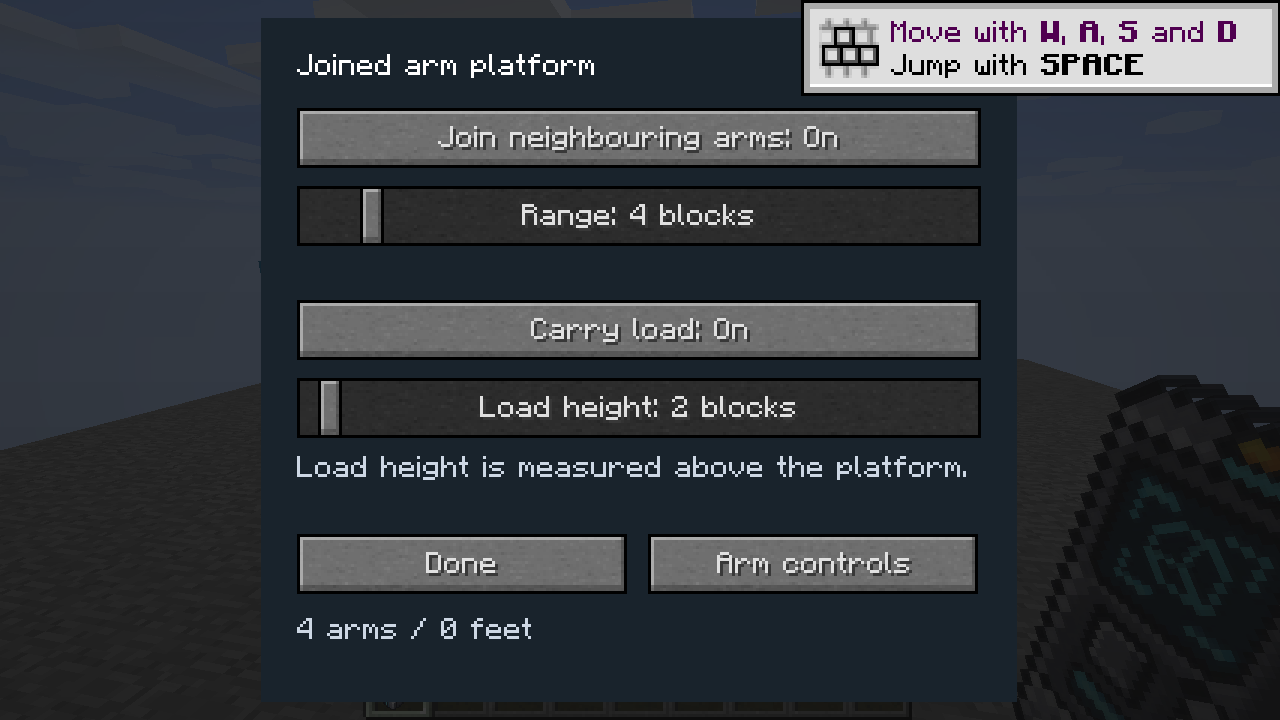
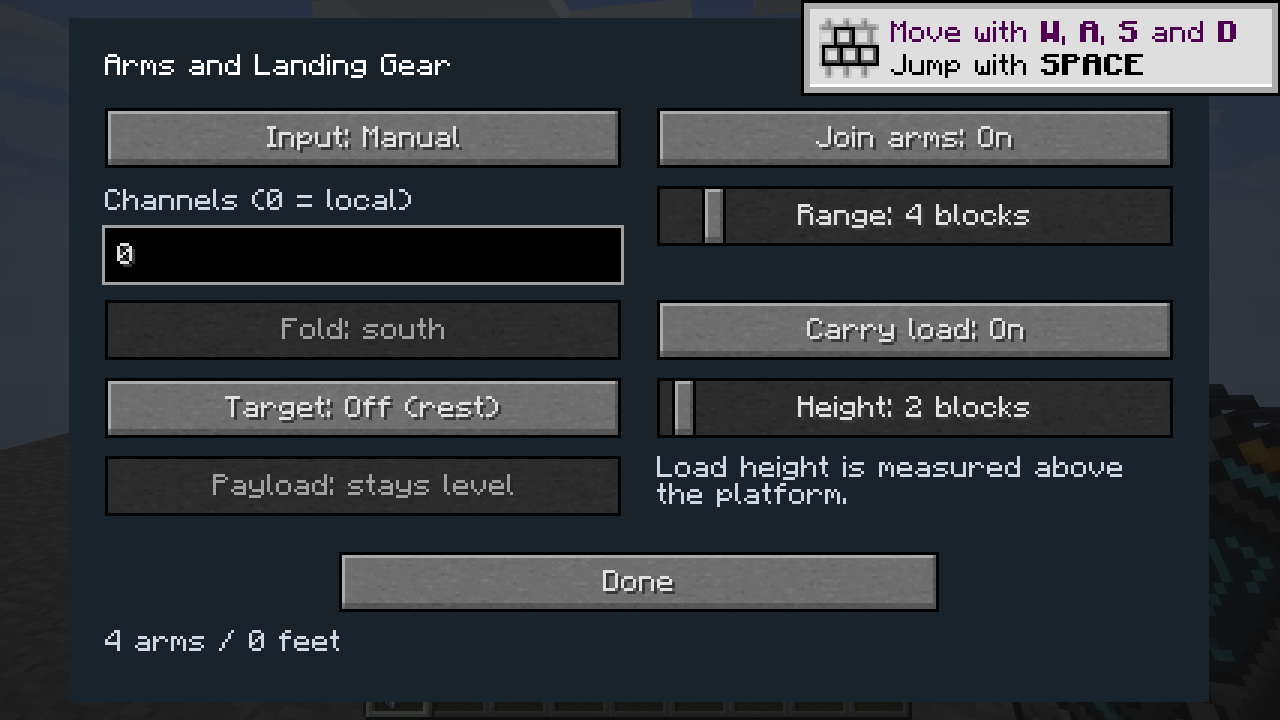
Limit unjoined Extenders to their tip block and show arm settings on one page

diff --git a/src/main/java/com/vandorlabs/gear/ArmLiveRuntimeChecks.java b/src/main/java/com/vandorlabs/gear/ArmLiveRuntimeChecks.java
@@ -14,20 +14,28 @@ import net.minecraftforge.fml.relauncher.*;
 @SideOnly(Side.CLIENT)
 public final class ArmLiveRuntimeChecks {
     private static final GearBlock[] BLOCKS={GearRegistry.GEAR_EXTENDER,GearRegistry.LARGE_GEAR_EXTENDER,GearRegistry.GEAR_SWING_ARM,GearRegistry.LARGE_GEAR_SWING_ARM};
-    private static int ticks,stage,started,fixture;
+    private static int ticks,stage,started,fixture=Integer.getInteger("vandorlabs.armLiveStart",0);
     private static boolean savedDone,followupDone,replacementDone;
     // Start with the reported floor-mounted stack. Other axes keep their mounting plane too.
     private static final EnumFacing[] FACES={EnumFacing.UP,EnumFacing.DOWN,EnumFacing.NORTH,EnumFacing.SOUTH,EnumFacing.WEST,EnumFacing.EAST};
     private static BlockPos root(){return new BlockPos(15+fixture*32,100,0);}
-    private static EnumFacing face(){return fixture<24?FACES[fixture%6]:EnumFacing.EAST;}
-    private static GearBlock block(){return fixture<24?BLOCKS[fixture/6]:BLOCKS[(fixture-24)*2];}
-    private static net.minecraft.block.Block payloadBlock(){return fixture<24?Blocks.STONE:Blocks.CHEST;}
+    private static EnumFacing face(){return fixture>=26?FACES[(fixture-26)%6]:fixture<24?FACES[fixture%6]:EnumFacing.EAST;}
+    private static GearBlock block(){return fixture>=26?BLOCKS[((fixture-26)/6)]:fixture<24?BLOCKS[fixture/6]:BLOCKS[(fixture-24)*2];}
+    private static net.minecraft.block.Block payloadBlock(){return fixture==24||fixture==25?Blocks.CHEST:Blocks.STONE;}
+    private static java.util.Set<BlockPos> surroundings(){
+        java.util.Set<BlockPos> cells=new java.util.LinkedHashSet<>();if(fixture<26)return cells;
+        BlockPos source=root().offset(face(),2);
+        for(int x=-1;x<=1;x++)for(int z=-1;z<=2;z++)if(x!=0||z!=0)cells.add(source.add(ArmOrientation.vector(face(),new BlockPos(x,0,z))));
+        for(int depth=0;depth<2;depth++)cells.add(root().offset(face(),depth).add(ArmOrientation.vector(face(),new BlockPos(1,0,0))));
+        return cells;
+    }
+    private static void surroundingsIntact(WorldServer world){for(BlockPos at:surroundings())require(world.getBlockState(at).getBlock()==Blocks.COBBLESTONE&&!ArmTransactions.locked(world,at),"surrounding structure stays in place and unlocked at "+at);}
     private static void require(boolean ok,String why){if(!ok)throw new IllegalStateException("arm-live fixture="+fixture+" face="+face()+" stage="+stage+" tick="+ticks+": "+why);}
     public static boolean tick(Minecraft mc)throws Exception{
         if(Boolean.getBoolean("vandorlabs.armRiderOnly"))return ArmRiderRuntimeChecks.tick(mc);
         if(Boolean.getBoolean("vandorlabs.armJoinedOnly"))return JoinedArmRuntimeChecks.tick(mc);
         if(Boolean.getBoolean("vandorlabs.armMiningOnly"))return ArmPayloadMiningRuntimeChecks.tick(mc);
-        if(fixture>=26){String second=System.getProperty("vandorlabs.armSecondFixture","");if(!replacementDone&&!second.isEmpty()){replacementDone=mc.getIntegratedServer().callFromMainThread(()->ArmReplacementRuntimeChecks.run(mc.getIntegratedServer().getWorld(0),mc.getIntegratedServer().getPlayerList().getPlayers().get(0),second)).get();return false;}return ArmPayloadMiningRuntimeChecks.tick(mc);}
+        if(fixture>=38){String second=System.getProperty("vandorlabs.armSecondFixture","");if(!replacementDone&&!second.isEmpty()){replacementDone=mc.getIntegratedServer().callFromMainThread(()->ArmReplacementRuntimeChecks.run(mc.getIntegratedServer().getWorld(0),mc.getIntegratedServer().getPlayerList().getPlayers().get(0),second)).get();return false;}return ArmPayloadMiningRuntimeChecks.tick(mc);}
         if(stage==0||stage==1)mc.displayGuiScreen(null);if(++ticks<80)return false;
         if(!followupDone){mc.getIntegratedServer().callFromMainThread(()->{ArmFollowupRuntimeChecks.run(mc.getIntegratedServer().getWorld(0),mc.getIntegratedServer().getPlayerList().getPlayers().get(0));return null;}).get();followupDone=true;return false;}
         String saved=System.getProperty("vandorlabs.armSavedFixture","");
@@ -39,7 +47,7 @@ public final class ArmLiveRuntimeChecks {
             for(BlockPos at:BlockPos.getAllInBox(root.add(-5,-5,-5),root.add(5,5,5))){BlockPos d=at.subtract(root);int depth=d.getX()*face().getFrontOffsetX()+d.getY()*face().getFrontOffsetY()+d.getZ()*face().getFrontOffsetZ();w.setBlockState(at,depth==-1?Blocks.STONE.getDefaultState():Blocks.AIR.getDefaultState(),2);}
             p.setHeldItem(EnumHand.MAIN_HAND,new ItemStack(block(),2));
             for(BlockPos support:new BlockPos[]{root.offset(face().getOpposite()),root})require(p.getHeldItemMainhand().onItemUse(p,w,support,EnumHand.MAIN_HAND,face(),.5F,.5F,.5F)==EnumActionResult.SUCCESS,"ordinary arm placement");
-            p.setHeldItem(EnumHand.MAIN_HAND,new ItemStack(payloadBlock()));require(p.getHeldItemMainhand().onItemUse(p,w,root.offset(face()),EnumHand.MAIN_HAND,face(),.5F,.5F,.5F)==EnumActionResult.SUCCESS,"ordinary payload placement");if(fixture>=24)((net.minecraft.inventory.IInventory)w.getTileEntity(source)).setInventorySlotContents(0,new ItemStack(net.minecraft.init.Items.DIAMOND,37));p.setHeldItem(EnumHand.MAIN_HAND,ItemStack.EMPTY);p.inventoryContainer.detectAndSendChanges();return null;
+            p.setHeldItem(EnumHand.MAIN_HAND,new ItemStack(payloadBlock()));require(p.getHeldItemMainhand().onItemUse(p,w,root.offset(face()),EnumHand.MAIN_HAND,face(),.5F,.5F,.5F)==EnumActionResult.SUCCESS,"ordinary payload placement");if(fixture==24||fixture==25)((net.minecraft.inventory.IInventory)w.getTileEntity(source)).setInventorySlotContents(0,new ItemStack(net.minecraft.init.Items.DIAMOND,37));for(BlockPos at:surroundings())w.setBlockState(at,Blocks.COBBLESTONE.getDefaultState(),2);p.setHeldItem(EnumHand.MAIN_HAND,ItemStack.EMPTY);p.inventoryContainer.detectAndSendChanges();return null;
         }).get();stage=1;started=ticks;return false;}
         if(stage==1){
             require(ticks-started<200,"client fixture sync mode="+mc.playerController.getCurrentGameType()+" slot="+mc.player.inventory.currentItem+" held="+mc.player.getHeldItemMainhand()+" pos="+mc.player.getPosition());
@@ -59,14 +67,15 @@ public final class ArmLiveRuntimeChecks {
             if(stage==2){if(ticks-started<10)return false;require(!arm.target(),"single click must retain retract request while journal is pending; progress="+arm.progress()+" error="+arm.error());
                 require(ticks-started<240,"retraction completes: "+arm.error());if(arm.progress()!=0||ArmTransactions.locked(w,root))return false;
                 require(w.isAirBlock(source)&&arm.payload()!=null,"payload travels with arm exactly once");
+                if(fixture>=26){require(arm.payload().blocks.cells.size()==1,"unjoined extender captures only its tip block");surroundingsIntact(w);net.minecraft.nbt.NBTTagCompound persisted=arm.writeToNBT(new net.minecraft.nbt.NBTTagCompound());arm.readFromNBT(persisted);arm.operator(p);arm.onLoad();require(arm.payload()!=null&&arm.payload().blocks.cells.size()==1,"saved retracted payload survives tile reload");}
                 if(block().kind()==GearBlock.Kind.EXTENDER)require(!arm.payload().materialized(),"retracted payload retained in occupied arm cell");
                 AxisAlignedBB box=arm.collisionBoxes().get(0);Vec3d aim=new Vec3d((box.minX+box.maxX)/2,(box.minY+box.maxY)/2,(box.minZ+box.maxZ)/2);
                 require(GearInteractions.trace(w,aim.add(new Vec3d(face().getDirectionVec()).scale(4)),aim)!=null,"retracted mechanism remains ray selectable");
-                if(fixture>=24){net.minecraft.inventory.IInventory inventory=(net.minecraft.inventory.IInventory)arm.payload().view(arm).getTileEntity(BlockPos.ORIGIN);require(inventory.getStackInSlot(0).getCount()==37,"captured chest retains 37 diamonds");}
+                if(fixture==24||fixture==25){net.minecraft.inventory.IInventory inventory=(net.minecraft.inventory.IInventory)arm.payload().view(arm).getTileEntity(BlockPos.ORIGIN);require(inventory.getStackInSlot(0).getCount()==37,"captured chest retains 37 diamonds");}
                 stage=6;started=ticks;return false;}
             if(stage==3){require(ticks-started<240,"reverse and journal retirement complete: "+arm.error());if(arm.progress()!=1||ArmTransactions.locked(w,root)||ArmTransactions.locked(w,source))return false;
                 require(w.getBlockState(source).getBlock()==payloadBlock(),"reverse restores payload");
-                if(fixture>=24)require(((net.minecraft.inventory.IInventory)w.getTileEntity(source)).getStackInSlot(0).getCount()==37,"restored chest owns 37 diamonds once");
+                surroundingsIntact(w);if(fixture==24||fixture==25)require(((net.minecraft.inventory.IInventory)w.getTileEntity(source)).getStackInSlot(0).getCount()==37,"restored chest owns 37 diamonds once");
                 p.setHeldItem(EnumHand.MAIN_HAND,new ItemStack(com.vandorlabs.items.ModItems.CONFIGURIZER));p.inventoryContainer.detectAndSendChanges();stage=4;started=ticks;return false;}
             require(ticks-started<200,"server opens arm configuration after motion");if(!(p.openContainer instanceof com.vandorlabs.container.ContainerModularGear))return false;
             p.closeScreen();p.setHeldItem(EnumHand.MAIN_HAND,ItemStack.EMPTY);
@@ -74,8 +83,8 @@ public final class ArmLiveRuntimeChecks {
             require(p.interactionManager.tryHarvestBlock(root)&&w.isAirBlock(root),"arm can be dismantled after movement");
             System.out.println("[vandorlabs] arm-live case PASS fixture="+fixture+" block="+block().getRegistryName()+" face="+face());
             fixture++;stage=0;started=ticks;
-            if(fixture<26)return false;
-            System.out.println("[vandorlabs] arm-live PASS cases=26 real click mounted stacks six axes regular/Large extender/rotating payload reversal Configurizer mining real ticks disk journals unlocked chest inventories");return false;
+            if(fixture<38)return false;
+            System.out.println("[vandorlabs] arm-live PASS cases=38 real click mounted stacks six axes regular/Large extender/rotating payload reversal Configurizer mining real ticks disk journals unlocked chest inventories; twelve unjoined 3x4 surroundings retained tile reloads");return false;
         }).get();
     }
     private ArmLiveRuntimeChecks(){}

diff --git a/src/main/java/com/vandorlabs/client/GuiModularGear.java b/src/main/java/com/vandorlabs/client/GuiModularGear.java
@@ -8,25 +8,25 @@ import net.minecraft.client.gui.inventory.GuiContainer;
 import net.minecraft.nbt.NBTTagCompound;
 import java.io.IOException;
 
-/** Primary controls and motion/appearance settings share one compact single-column page. */
+/** Primary controls and motion/appearance settings share one compact page. */
 public final class GuiModularGear extends GuiContainer {
     private final GearTileEntity tile;
     private int trigger,direction;
-    private boolean deployed,rotate,platformPage,join,load;
+    private boolean deployed,rotate,join,load;
     private int range,heightLimit;
     private net.minecraftforge.fml.client.config.GuiSlider rangeSlider,loadSlider;
     private GuiTextField channels;
     private String error="";
     public GuiModularGear(ContainerModularGear container){
-        super(container);tile=container.tile;trigger=tile.triggerMode;direction=tile.direction().ordinal();deployed=tile.target();rotate=tile.rotatePayload();join=tile.joinEnabled();load=tile.carryLoad()&&tile.canCarryLoad();range=tile.joinRange();heightLimit=tile.loadHeight();xSize=252;ySize=228;
+        super(container);tile=container.tile;trigger=tile.triggerMode;direction=tile.direction().ordinal();deployed=tile.target();rotate=tile.rotatePayload();join=tile.joinEnabled();load=tile.carryLoad()&&tile.canCarryLoad();range=tile.joinRange();heightLimit=tile.loadHeight();xSize=380;ySize=228;
     }
     @Override public void initGui(){
-        xSize=Math.min(252,width-12);ySize=228;super.initGui();buttonList.clear();int col=xSize-24;
+        xSize=Math.min(380,width-12);ySize=228;super.initGui();buttonList.clear();int col=(xSize-36)/2,right=guiLeft+24+col;
         channels=new GuiTextField(0,fontRenderer,guiLeft+12,guiTop+70,col,18);channels.setMaxStringLength(com.vandorlabs.redstone.ChannelList.MAX_TEXT_LENGTH);channels.setText(tile.getRedstoneChannels().toString());
-        add(0,guiLeft+12,30,col);add(1,guiLeft+12,94,col);add(2,guiLeft+12,120,col);add(7,guiLeft+12,146,col);add(4,guiLeft+12,172,(col-6)/2);add(8,guiLeft+18+(col-6)/2,172,(col-6)/2);
-        add(9,guiLeft+12,30,col);add(11,guiLeft+12,94,col);
-        rangeSlider=new net.minecraftforge.fml.client.config.GuiSlider(10,guiLeft+12,guiTop+56,col,20,"Range: "," blocks",1,32,range,false,true,slider->{int value=slider.getValueInt();slider.setValue(value);if(value!=range){range=value;submit();}});buttonList.add(rangeSlider);
-        loadSlider=new net.minecraftforge.fml.client.config.GuiSlider(12,guiLeft+12,guiTop+120,col,20,"Load height: "," blocks",1,32,heightLimit,false,true,slider->{int value=slider.getValueInt();slider.setValue(value);if(value!=heightLimit){heightLimit=value;submit();}});buttonList.add(loadSlider);
+        add(0,guiLeft+12,30,col);add(1,guiLeft+12,94,col);add(2,guiLeft+12,120,col);add(7,guiLeft+12,146,col);add(4,guiLeft+(xSize-200)/2,178,200);
+        add(9,right,30,col);add(11,right,94,col);
+        rangeSlider=new net.minecraftforge.fml.client.config.GuiSlider(10,right,guiTop+56,col,20,"Range: "," blocks",1,32,range,false,true,slider->{int value=slider.getValueInt();slider.setValue(value);if(value!=range){range=value;submit();}});buttonList.add(rangeSlider);
+        loadSlider=new net.minecraftforge.fml.client.config.GuiSlider(12,right,guiTop+120,col,20,"Height: "," blocks",1,32,heightLimit,false,true,slider->{int value=slider.getValueInt();slider.setValue(value);if(value!=heightLimit){heightLimit=value;submit();}});buttonList.add(loadSlider);
         labels();org.lwjgl.input.Keyboard.enableRepeatEvents(true);
     }
     private void add(int id,int x,int y,int width){buttonList.add(new GuiButton(id,x,guiTop+y,width,20,""));}
@@ -34,11 +34,9 @@ public final class GuiModularGear extends GuiContainer {
     private void labels(){
 
         boolean rest=tile.fullyDeployed();
-        for(int id:new int[]{0,1,2,7})button(id).visible=!platformPage;channels.setVisible(!platformPage);
-        button(9).visible=button(11).visible=platformPage;rangeSlider.visible=platformPage&&join;loadSlider.visible=platformPage&&join&&load&&tile.canCarryLoad();
-        button(9).displayString="Join neighbouring arms: "+(join?"On":"Off");button(9).enabled=rest&&!tile.isLandingAssembly()&&!tile.isFixedMount();rangeSlider.enabled=rest;
+        rangeSlider.visible=join;loadSlider.visible=join&&load&&tile.canCarryLoad();
+        button(9).displayString="Join arms: "+(join?"On":"Off");button(9).enabled=rest&&!tile.isLandingAssembly()&&!tile.isFixedMount();rangeSlider.enabled=rest;
         button(11).displayString="Carry load: "+(load?"On":"Off");button(11).enabled=rest&&join&&tile.canCarryLoad();loadSlider.enabled=rest;
-        button(8).displayString=platformPage?"Arm controls":"Platform options";button(8).enabled=!tile.isLandingAssembly()&&!tile.isFixedMount();
         button(0).displayString="Input: "+(tile.isLandingAssembly()&&!tile.isExtendedTrackStroke()?new String[]{"Manual","ON deploys","OFF deploys"}:new String[]{"Manual","ON activates","OFF activates"})[trigger];
         net.minecraft.util.math.BlockPos fold=com.vandorlabs.gear.ArmOrientation.vector(tile.mountDirection(),new net.minecraft.util.math.BlockPos(net.minecraft.util.EnumFacing.valueOf(new String[]{"NORTH","EAST","SOUTH","WEST"}[direction]).getDirectionVec()));
         button(1).displayString="Fold: "+net.minecraft.util.EnumFacing.getFacingFromVector(fold.getX(),fold.getY(),fold.getZ()).getName();button(1).enabled=tile.isSwingArmController()&&rest&&deployed;
@@ -54,17 +52,16 @@ public final class GuiModularGear extends GuiContainer {
     }
     @Override protected void actionPerformed(GuiButton b){
         if(b.id==4){mc.player.closeScreen();return;}
-        if(b.id==8){platformPage=!platformPage;labels();return;}
         if(b.id==0)trigger=GuiOptionCycle.next(trigger,3);else if(b.id==1)direction=GuiOptionCycle.next(direction,4);else if(b.id==2)deployed=!deployed;else if(b.id==7)rotate=!rotate;else if(b.id==9){join=!join;if(!join)load=false;}else if(b.id==11)load=!load;else return;
         submit();labels();
     }
     @Override protected void drawGuiContainerBackgroundLayer(float partial,int x,int y){drawRect(guiLeft,guiTop,guiLeft+xSize,guiTop+ySize,0xff19232c);}
     @Override protected void drawGuiContainerForegroundLayer(int x,int y){
-        fontRenderer.drawString(platformPage?"Joined arm platform":"Arms and Landing Gear",12,12,0xffffff);
-        if(!platformPage)fontRenderer.drawString(tile.usesLegacyInput()?"Channels (any + local)":"Channels (0 = local)",12,57,0xcdd7e4);
+        fontRenderer.drawString("Arms and Landing Gear",12,12,0xffffff);
+        fontRenderer.drawString(tile.usesLegacyInput()?"Channels (any + local)":"Channels (0 = local)",12,57,0xcdd7e4);
         String failure=error.isEmpty()?tile.error():error;String status=failure.isEmpty()?(tile.isController()?tile.columns().size()+" arms / "+(tile.isLandingAssembly()?tile.assembly().feet().size():0)+" feet":"Track appearance"):"ERROR: "+failure;
-        if(platformPage)fontRenderer.drawSplitString(tile.canCarryLoad()?"Load height is measured above the platform.":"Platform only for sideways or rotating arms.",12,146,xSize-24,0xcdd7e4);
-        java.util.List<String> lines=fontRenderer.listFormattedStringToWidth(status,xSize-24);for(int i=0;i<Math.min(2,lines.size());i++)fontRenderer.drawString(lines.get(i),12,200+i*9,failure.isEmpty()?0xcdd7e4:0xff8888);
+        fontRenderer.drawSplitString(tile.canCarryLoad()?"Load height is measured above the platform.":"Platform only for sideways or rotating arms.",24+(xSize-36)/2,146,(xSize-36)/2,0xcdd7e4);
+        java.util.List<String> lines=fontRenderer.listFormattedStringToWidth(status,xSize-24);for(int i=0;i<Math.min(2,lines.size());i++)fontRenderer.drawString(lines.get(i),12,204+i*9,failure.isEmpty()?0xcdd7e4:0xff8888);
     }
     @Override public void drawScreen(int x,int y,float partial){drawDefaultBackground();net.minecraft.client.renderer.GlStateManager.disableLighting();net.minecraft.client.renderer.GlStateManager.disableDepth();super.drawScreen(x,y,partial);net.minecraft.client.renderer.GlStateManager.disableLighting();net.minecraft.client.renderer.GlStateManager.disableDepth();channels.drawTextBox();renderHoveredToolTip(x,y);}
     @Override protected void mouseClicked(int x,int y,int b)throws IOException{if(GuiOptionCycle.rightClick(mc,buttonList,x,y,b,this::actionPerformed,0,1,2,7,9,11))return;super.mouseClicked(x,y,b);channels.mouseClicked(x,y,b);}

diff --git a/src/main/java/com/vandorlabs/client/GearDialogChecks.java b/src/main/java/com/vandorlabs/client/GearDialogChecks.java
@@ -26,15 +26,23 @@ public final class GearDialogChecks {
         try{for(GearBlock block:blocks)for(int[] size:new int[][]{{320,240},{460,340},{1280,720}}){
             GearTileEntity tile=fixture(mc,block);boolean track=tile instanceof com.vandorlabs.gear.track.TrackTile;net.minecraft.client.gui.inventory.GuiContainer gui=track?new GuiTrack(new ContainerModularGear(tile)):new GuiModularGear(new ContainerModularGear(tile));gui.inventorySlots.windowId=-94;mc.displayGuiScreen(gui);gui.setWorldAndResolution(mc,size[0],size[1]);
             List<GuiButton> buttons=net.minecraftforge.fml.relauncher.ReflectionHelper.getPrivateValue(GuiScreen.class,gui,"buttonList","field_146292_n");List<Rectangle> occupied=new ArrayList<>();boolean rotation=false,done=false;
-            for(GuiButton button:buttons){require(button.id!=6&&!button.displayString.equals("Back"),"legacy page-navigation controls remain absent");if(!button.visible)continue;require(mc.fontRenderer.getStringWidth(button.displayString)<=button.width-4,"button text fits "+button.displayString);add(occupied,new Rectangle(button.x,button.y,button.width,button.height),size);if(!track&&button.id!=4&&button.id!=8)require(button.x==gui.getGuiLeft()+12&&button.width==gui.getXSize()-24,"arm controls share one full-width column");if(button.id==7)rotation=true;if(button.id==4)done="Done".equals(button.displayString);}
+            for(GuiButton button:buttons){require(button.id!=6&&button.id!=8&&!button.displayString.equals("Back"),"no page-navigation controls");if(!button.visible)continue;require(mc.fontRenderer.getStringWidth(button.displayString)<=button.width-4,"button text fits "+button.displayString);add(occupied,new Rectangle(button.x,button.y,button.width,button.height),size);if(button.id==7)rotation=true;if(button.id==4)done="Done".equals(button.displayString);}
             require(done&&(track?!rotation:rotation),"separate Track appearance and arm motion controls");if(track){require(buttons.size()==2,"Track shows only style and Done");require(((com.vandorlabs.gear.track.TrackTile)tile).error().isEmpty(),"standalone mounted Track has no generic arm assembly error");}else for(Field field:fields){GuiTextField text=(GuiTextField)field.get(gui);if(text.getVisible())add(occupied,new Rectangle(text.x,text.y,text.width,text.height),size);}
             if(!track){
-
-                GuiButton page=buttons.stream().filter(b->b.id==8).findFirst().get();
-                if(page.enabled){((GuiModularGear)gui).mouseClicked(page.x+5,page.y+5,0);require("Arm controls".equals(page.displayString),"platform page opens through mouse input");occupied.clear();for(GuiButton b:buttons)if(b.visible){require(mc.fontRenderer.getStringWidth(b.displayString)<=b.width-4,"platform label fits "+b.displayString);add(occupied,new Rectangle(b.x,b.y,b.width,b.height),size);}require(!((GuiTextField)fields[0].get(gui)).getVisible(),"channel editor hidden on platform page");((GuiModularGear)gui).mouseClicked(page.x+5,page.y+5,0);require("Platform options".equals(page.displayString),"arm controls return through mouse input");}
+                GuiModularGear armGui=(GuiModularGear)gui;
+                GuiButton join=buttons.stream().filter(b->b.id==9).findFirst().get(),load=buttons.stream().filter(b->b.id==11).findFirst().get();
+                require(join.visible&&load.visible&&((GuiTextField)fields[0].get(gui)).getVisible(),"arm, channel and platform controls share one page");
+                if(join.enabled){
+                    armGui.mouseClicked(join.x+5,join.y+5,0);require(join.displayString.endsWith("On"),"left click enables joining");
+                    armGui.mouseClicked(join.x+5,join.y+5,1);require(join.displayString.endsWith("Off"),"right click disables joining");
+                    armGui.mouseClicked(join.x+5,join.y+5,0);
+                    sliderEndpoints(mc,armGui,buttons,10);
+                    if(load.enabled){armGui.mouseClicked(load.x+5,load.y+5,1);require(load.displayString.endsWith("On"),"right click enables load");sliderEndpoints(mc,armGui,buttons,12);}
+                }
+                occupied.clear();for(GuiButton b:buttons)if(b.visible){require(mc.fontRenderer.getStringWidth(b.displayString)<=b.width-4,"one-page label fits "+b.displayString);add(occupied,new Rectangle(b.x,b.y,b.width,b.height),size);}GuiTextField text=(GuiTextField)fields[0].get(gui);add(occupied,new Rectangle(text.x,text.y,text.width,text.height),size);
             }
             GuiOptionCycleRuntimeChecks.check(mc);
-            GuiButton doneButton=buttons.stream().filter(b->b.id==4).findFirst().get();require(doneButton.width==(track?200:(gui.getXSize()-30)/2),"Done fits beside platform navigation");
+            GuiButton doneButton=buttons.stream().filter(b->b.id==4).findFirst().get();require(doneButton.width==200,"native Done remains 200 pixels on the single page");
             Framebuffer frame=new Framebuffer(size[0],size[1],true);GlStateManager.matrixMode(5889);GlStateManager.pushMatrix();GlStateManager.loadIdentity();GlStateManager.ortho(0,size[0],size[1],0,-1000,1000);GlStateManager.matrixMode(5888);GlStateManager.pushMatrix();
             try(TurntableRenderState saved=new TurntableRenderState()){
                 frame.bindFramebuffer(true);GlStateManager.loadIdentity();GlStateManager.depthMask(true);GlStateManager.clearColor(32/255F,48/255F,64/255F,1);GlStateManager.clear(16640);GlStateManager.disableDepth();GlStateManager.enableTexture2D();GlStateManager.disableLighting();gui.drawScreen(-1,-1,0);org.lwjgl.opengl.GL11.glFinish();java.awt.image.BufferedImage image=net.minecraft.util.ScreenShotHelper.createScreenshot(size[0],size[1],frame);javax.imageio.ImageIO.write(image,"png",new File(output,"shot_arm_dialog_"+block.getRegistryName().getResourcePath()+"_"+size[0]+".png"));int left=0,right=0;for(int y=gui.getGuiTop()+24;y<gui.getGuiTop()+178;y++)for(int x=gui.getGuiLeft()+12;x<gui.getGuiLeft()+gui.getXSize()-12;x++){int rgb=image.getRGB(x,y)&0xffffff;if(rgb==0xffffff||rgb==0xcdd7e4){if(x<size[0]/2)left++;else right++;}}require(left+right>80,"actual dialog controls contain rendered glyphs");
@@ -42,6 +50,10 @@ public final class GearDialogChecks {
             }finally{GlStateManager.popMatrix();GlStateManager.matrixMode(5889);GlStateManager.popMatrix();GlStateManager.matrixMode(5888);frame.deleteFramebuffer();mc.getFramebuffer().bindFramebuffer(true);}cases++;
         }}finally{mc.displayGuiScreen(previous);mc.player.openContainer=container;org.lwjgl.input.Keyboard.enableRepeatEvents(false);}
         System.out.println("[vandorlabs][reprolab] arm-platform-dialog PASS cases="+cases+" compact320/460/1280 separate Track/Arm controls no Angle/Active Reach fields native Done normal/hover pixels reverse/forward mouse paths");
+    }
+    private static void sliderEndpoints(Minecraft mc,GuiModularGear gui,List<GuiButton> buttons,int id)throws Exception{
+        net.minecraftforge.fml.client.config.GuiSlider slider=(net.minecraftforge.fml.client.config.GuiSlider)buttons.stream().filter(b->b.id==id).findFirst().get();require(slider.visible&&slider.enabled,"enabled slider shares the page");
+        for(int value:new int[]{32,1}){int x=value==32?slider.x+slider.width-1:slider.x+1;gui.mouseClicked(x,slider.y+10,0);slider.mouseReleased(x,slider.y+10);require(slider.getValueInt()==value,"slider selects endpoint "+value);}
     }
     private static void buttonPixels(Minecraft mc,net.minecraft.client.gui.inventory.GuiContainer gui,GuiButton done,Framebuffer frame,int[] size,File output,boolean capture)throws Exception{
         java.awt.image.BufferedImage previous=null;

diff --git a/src/main/java/com/vandorlabs/gear/Gear26RuntimeChecks.java b/src/main/java/com/vandorlabs/gear/Gear26RuntimeChecks.java
@@ -193,6 +193,7 @@ public final class Gear26RuntimeChecks {
     private static void payloadBounds(WorldServer world,EntityPlayerMP actor,BlockPos root){
         clear(world,root);GearTileEntity tile=arm(world,actor,root,GearRegistry.GEAR_EXTENDER,EnumFacing.DOWN,2);
         for(int x=0;x<16;x++)world.setBlockState(root.add(x,-2,0),Blocks.STONE.getDefaultState());
+        NBTTagCompound legacy=tile.writeToNBT(new NBTTagCompound());legacy.setTag("ArmPayload",savedAttachment(world,root,root.down(2),16).write());tile.readFromNBT(legacy);tile.operator(actor);
         NBTTagCompound values=tile.settings();values.setDouble("ActiveExtension",.5);values.setBoolean("Deployed",false);tile.configure(values);retainMidStroke(tile);
         require(tile.progress()>0&&tile.progress()<1&&tile.payload()!=null,"wide attachment retained in mid-stroke");
         for(double progress:new double[]{0,.25,.5,.75,1})for(AxisAlignedBB box:tile.payload().boxes(tile,progress))require(tile.getRenderBoundingBox().grow(1e-6).contains(new Vec3d(box.minX,box.minY,box.minZ))&&tile.getRenderBoundingBox().grow(1e-6).contains(new Vec3d(box.maxX,box.maxY,box.maxZ)),"render and spatial bounds contain entire payload stroke");
@@ -218,11 +219,17 @@ public final class Gear26RuntimeChecks {
         }finally{craft.signals.close();craft.setDead();clear(world,root);}
         System.out.println("[vandorlabs][reprolab] gear26-carried PASS Taxi-animation atomic-nested-capture changed-inventory retained-snapshot four-parking-headings");
     }
+    /** A persisted pre-tip-only payload must retain its entire authorized footprint. */
+    private static ArmPayload savedAttachment(WorldServer world,BlockPos root,BlockPos source,int count){
+        java.util.List<com.vandorlabs.vehicle.VehicleStructure.Cell> cells=new java.util.ArrayList<>();
+        for(int x=0;x<count;x++){BlockPos at=source.east(x);TileEntity raw=world.getTileEntity(at);NBTTagCompound data=raw==null?null:com.vandorlabs.vehicle.VehicleTileData.translated(raw.writeToNBT(new NBTTagCompound()),BlockPos.ORIGIN.subtract(source));cells.add(new com.vandorlabs.vehicle.VehicleStructure.Cell(new BlockPos(x,0,0),world.getBlockState(at),data));}
+        NBTTagCompound saved=new NBTTagCompound();saved.setTag("Blocks",com.vandorlabs.vehicle.VehicleStructure.display(cells).write());saved.setLong("Offset",source.subtract(root).toLong());saved.setLong("PlacedOffset",source.subtract(root).toLong());saved.setBoolean("Materialized",true);return ArmPayload.read(saved);
+    }
     private static void transactions(WorldServer world,EntityPlayerMP actor,BlockPos root){
         clear(world,root);GearTileEntity tile=arm(world,actor,root,GearRegistry.GEAR_EXTENDER,EnumFacing.DOWN,2);BlockPos source=root.down(2);
         world.setBlockState(source,Blocks.CHEST.getDefaultState());world.setBlockState(source.east(),Blocks.STONE.getDefaultState());world.setBlockState(source.east(2),Blocks.DROPPER.getDefaultState());((net.minecraft.tileentity.TileEntityDropper)world.getTileEntity(source.east(2))).setInventorySlotContents(0,new ItemStack(net.minecraft.init.Items.IRON_INGOT,11));
         net.minecraft.tileentity.TileEntityChest chest=(net.minecraft.tileentity.TileEntityChest)world.getTileEntity(source);chest.setInventorySlotContents(0,new ItemStack(net.minecraft.init.Items.DIAMOND,3));
-        ArmPayload payload=ArmPayload.discover(tile,actor);NBTTagCompound original=payload.write();final int[] count={0};
+        ArmPayload payload=savedAttachment(world,root,source,3);NBTTagCompound original=payload.write();final int[] count={0};
         ArmPayload.failureInjector=(stage,at)->{if(stage.equals("clear")&&++count[0]==2){ArmPayload.failureInjector=null;throw new IllegalStateException("injected clear failure");}};
         boolean rejected=false;try{payload.detach(tile);}catch(IllegalStateException expected){rejected=true;}finally{ArmPayload.failureInjector=null;}
         require(rejected&&payload.materialized()&&payload.matchesPlaced(tile),"second-cell clear failure restores every current cell and tile");require(original.equals(payload.write()),"detach rollback retains exact snapshot and materialization state");

diff --git a/src/main/java/com/vandorlabs/client/JoinedArmDocumentation.java b/src/main/java/com/vandorlabs/client/JoinedArmDocumentation.java
@@ -16,12 +16,12 @@ public final class JoinedArmDocumentation {
     private static final BlockPos ROOT=new BlockPos(32,80,32);
     private static int stage=-1,settle;
     private static String pending;
-    private static boolean captured,done,tab;
+    private static boolean captured,done;
     private static File directory;
     private static void require(boolean ok,String why){if(!ok)throw new IllegalStateException("joined-arm documentation: "+why);}
     public static boolean tick(Minecraft mc,File output)throws Exception{
         directory=output;if(done)return true;
-        if(stage<0||captured){stage++;captured=false;settle=0;tab=false;
+        if(stage<0||captured){stage++;captured=false;settle=0;
             if(stage==6){done=true;System.out.println("[vandorlabs] joined-arm-docs PASS six construction configuration and level-contact captures");return true;}
             mc.getIntegratedServer().callFromMainThread(()->{
                 WorldServer world=mc.getIntegratedServer().getWorld(0);EntityPlayerMP player=mc.getIntegratedServer().getPlayerList().getPlayers().get(0);world.getGameRules().setOrCreateGameRule("doDaylightCycle","false");world.setWorldTime(6000);world.getWorldInfo().setRaining(false);
@@ -41,7 +41,7 @@ public final class JoinedArmDocumentation {
         GearTileEntity tile=(GearTileEntity)mc.world.getTileEntity(ROOT);if(tile==null||tile.loadedController()==null)return false;tile=tile.loadedController();
         if(stage==3||stage==5){if(tile.progress()!=0||tile.payload()==null)return false;}
         if(stage==2)require(tile.columns().size()==4,"documented four-corner group");
-        if(stage==4){if(!tile.fullyDeployed())return false;if(!(mc.currentScreen instanceof GuiModularGear)){mc.player.connection.sendPacket(new net.minecraft.network.play.client.CPacketPlayerTryUseItemOnBlock(ROOT,EnumFacing.UP,EnumHand.MAIN_HAND,.5F,.5F,.5F));return false;}GuiModularGear gui=(GuiModularGear)mc.currentScreen;if(!tab){gui.mouseClicked((gui.width-252)/2+180,(gui.height-228)/2+182,0);tab=true;settle=30;return false;}}
+        if(stage==4){if(!tile.fullyDeployed())return false;if(!(mc.currentScreen instanceof GuiModularGear)){mc.player.connection.sendPacket(new net.minecraft.network.play.client.CPacketPlayerTryUseItemOnBlock(ROOT,EnumFacing.UP,EnumHand.MAIN_HAND,.5F,.5F,.5F));return false;}}
         if(pending==null)pending="shot_joined_arm_"+(stage+1)+".png";return false;
     }
     public static void render(Minecraft mc){if(pending==null)return;try{javax.imageio.ImageIO.write(net.minecraft.util.ScreenShotHelper.createScreenshot(mc.displayWidth,mc.displayHeight,mc.getFramebuffer()),"png",new File(directory,pending));System.out.println("[vandorlabs] joined-arm-doc-stage "+(stage+1)+" captured");pending=null;captured=true;}catch(java.io.IOException failure){throw new IllegalStateException(failure);}}

diff --git a/src/main/java/com/vandorlabs/gear/ArmPayload.java b/src/main/java/com/vandorlabs/gear/ArmPayload.java
@@ -74,6 +74,10 @@ public final class ArmPayload {
         World world=arm.getWorld();BlockPos start=arm.localCell(0,-arm.assembly().columnHeight(),0);
         Set<BlockPos> platform=arm.joinEnabled()&&arm.columns().size()>1?JoinedArms.platform(arm):null;
         JoinedArms.Volume volume=platform==null?null:new JoinedArms.Volume(arm,platform);
+        // An unjoined Extender selects its tip block. Face contact with a wall or
+        // floor does not opt the surrounding structure into the moving payload.
+        boolean tipOnly=platform==null&&!arm.isLandingAssembly()&&!arm.isExtendedTrackStroke()
+                &&arm.getBlockType() instanceof GearBlock&&((GearBlock)arm.getBlockType()).kind()==GearBlock.Kind.EXTENDER;
         if(platform!=null){for(BlockPos member:arm.members())VehicleService.permission(actor,member);if(arm.carryLoad()&&!arm.canCarryLoad())throw new IllegalArgumentException("Carry load requires vertical movement");}
         if(world.isAirBlock(start))return null;
         ArrayDeque<BlockPos> pending=new ArrayDeque<>();Set<BlockPos> visited=new LinkedHashSet<>();pending.add(start);
@@ -98,6 +102,7 @@ public final class ArmPayload {
             int limit=platform==null?64:MAX_BLOCKS,span=platform==null?16:MAX_SPAN;
             if(captured.size()>=limit||maxX-minX>=span||maxY-minY>=span||maxZ-minZ>=span)throw new IllegalArgumentException("Arm attachment exceeds "+limit+" blocks or a "+span+"-block span");
             captured.add(new VehicleStructure.Cell(at,state,tile==null?null:tile.writeToNBT(new NBTTagCompound())));
+            if(tipOnly)continue;
             // A landing foot terminates its own outward branch, allowing nested gear above it.
             boolean foot=GearAssembly.isFoot(state);
             for(EnumFacing side:EnumFacing.values()){

diff --git a/testclient/run_windows.py b/testclient/run_windows.py
@@ -208,6 +208,7 @@ def main():
     if args.focus == 'arm-mining':
         properties.append('-Dvandorlabs.armMiningOnly=true')
     if args.focus == 'arm-live':
+        properties.append('-Dvandorlabs.armLiveStart='+os.environ.get('VANDOR_LABS_ARM_LIVE_START','0'))
         properties.append('-Dvandorlabs.armSecondFixture='+str(root/'testclient/fixtures/arm-rotating-replacement-2.6.nbt'))
         properties.append('-Dvandorlabs.armSavedFixture='+str(root/'testclient/fixtures/arm-pending-detach-2.6.nbt'))
     if args.focus == 'ramps':

diff --git a/docs/versions/version-2.6.md b/docs/versions/version-2.6.md
@@ -36,9 +36,9 @@ A Journal Chip in Input loads its title and eight text pages into the Journal vi
 
 Controller authorization survives reconnecting. Captured payload blocks can be mined without removing their supporting arm; inventory drops use the same durable ownership rules as arm transfers.
 
-[Extender, Rotating and Fixed Arms](../modular-landing-gear.md) can form mechanisms without a landing foot or hull above them. Place arms on floors, ceilings or walls to choose their motion axis. A generic mechanism's Off state is its construction pose. Standalone extenders retract on activation: half a block for one section, one block for two sections, and one fewer block than the section count for longer stacks. They never extend beyond their placed length. The single-column dialog configures motion and appearance without Angle or Active reach fields. The payload can stay level or rotate with the arm. Ordinary clicks on the exposed tip place the next arm or payload outside the arm's occupied cell, and one-section extenders retain half a block of clearance.
+[Extender, Rotating and Fixed Arms](../modular-landing-gear.md) can form mechanisms without a landing foot or hull above them. Place arms on floors, ceilings or walls to choose their motion axis. A generic mechanism's Off state is its construction pose. Standalone extenders retract on activation: half a block for one section, one block for two sections, and one fewer block than the section count for longer stacks. They never extend beyond their placed length. The single-page dialog configures motion, appearance and joined-platform settings without Angle or Active reach fields. The payload can stay level or rotate with the arm. Ordinary clicks on the exposed tip place the next arm or payload outside the arm's occupied cell, and one-section extenders retain half a block of clearance.
 
-Ordinary attachments become placed blocks again at exact whole-block translation endpoints. New attachments in rotating payload mode align with the block grid at quarter-turn endpoints; level payloads stay connected to their swivels. Full blocks with safely representable rotated states can become ordinary blocks there; unsupported rotations and fractional translations retain their data in a moving snapshot. Existing saved attachments preserve their alignment. Captured machinery pauses while held, as it does in vehicle snapshots. Ownership changes use a recovery journal before world edits and keep affected inventories locked until the changed chunks are saved; interrupted transfers recover on restart. Cosmetic arm motion uses a pause-aware client clock so delayed server updates do not repeatedly restart the animation. Discovery and motion remain bounded and require loaded cells and permission to move the attachment.
+Unjoined Extenders move only their tip block, leaving touching surroundings in place. Ordinary attachments become placed blocks again at exact whole-block translation endpoints. New attachments in rotating payload mode align with the block grid at quarter-turn endpoints; level payloads stay connected to their swivels. Full blocks with safely representable rotated states can become ordinary blocks there; unsupported rotations and fractional translations retain their data in a moving snapshot. Existing saved attachments preserve their alignment. Captured machinery pauses while held, as it does in vehicle snapshots. Ownership changes use a recovery journal before world edits and keep affected inventories locked until the changed chunks are saved; interrupted transfers recover on restart. Cosmetic arm motion uses a pause-aware client clock so delayed server updates do not repeatedly restart the animation. Discovery and motion remain bounded and require loaded cells and permission to move the attachment.
 
 One **Track** block offers Compact, Armoured and Bogie styles in its dialog. Place tracks against an arm tip, beside a slab or against another track; placement follows the clicked mounting direction. Two track blocks are enough for vehicle support. Native tread geometry supplies the selection and collision bounds. Track settings have their own dialog, and the belts animate with Taxi travel, reverse and steering while remaining still in Hover. Nested landing groups can include connecting blocks and lower landing assemblies; inspection uses the outer supports and excludes the ground beyond them.
 

diff --git a/docs/joined-arm-platforms.md b/docs/joined-arm-platforms.md
@@ -1,6 +1,7 @@
 # Joined arm platforms
 
-Extender Arms and Large Extender Arms can share a platform. Rotating Arms and
+An unjoined Extender Arm moves only the block at its tip; touching walls, floors
+and other surrounding blocks stay in place. Extender Arms and Large Extender Arms can share a platform. Rotating Arms and
 Large Rotating Arms can share a platform along their hinge axis.
 
 ## Build an Extender platform
@@ -20,7 +21,7 @@ Large Rotating Arms can share a platform along their hinge axis.
    ![A connected platform with an open centre](images/joined-arms/platform.png)
 
 3. With the arms fully extended, open each arm's dialog using the Configurizer.
-   Select **Platform options**, enable **Join neighbouring arms**, and set
+   Enable **Join arms** in the same dialog and set
    **Range** from 1 to 32 blocks. Range is the distance to a neighbouring arm,
    so intermediate arms can connect a longer platform. Every participating arm
    must opt in, and both neighbours must have sufficient range.

diff --git a/CHANGELOG.md b/CHANGELOG.md
@@ -2,6 +2,8 @@
 
 ## 2.6
 
+- Keep unjoined Extender payloads limited to the tip block so touching surroundings do not cause a mounting-structure refusal. Put arm and joined-platform controls together on one page, including range and load-height sliders.
+
 - Add opt-in joined arm platforms with a 1–32 block neighbour range. Extenders support connected rectangles with air holes and intermediate supports, including six-arm 2×3 layouts; Rotating Arms join along a common hinge axis. Vertically moving Extenders offer an optional 1–32 block load height.
 - Preserve controller authorization through unload-before-save and reconnect, including Copy Controllers. Keep rotating level payloads attached to their sockets and restore replaced rotating payloads at valid endpoints without false collision stalls.
 - Give captured payload blocks their own mining target, retaining the supporting arm and journaling inventory drops through restart recovery.
